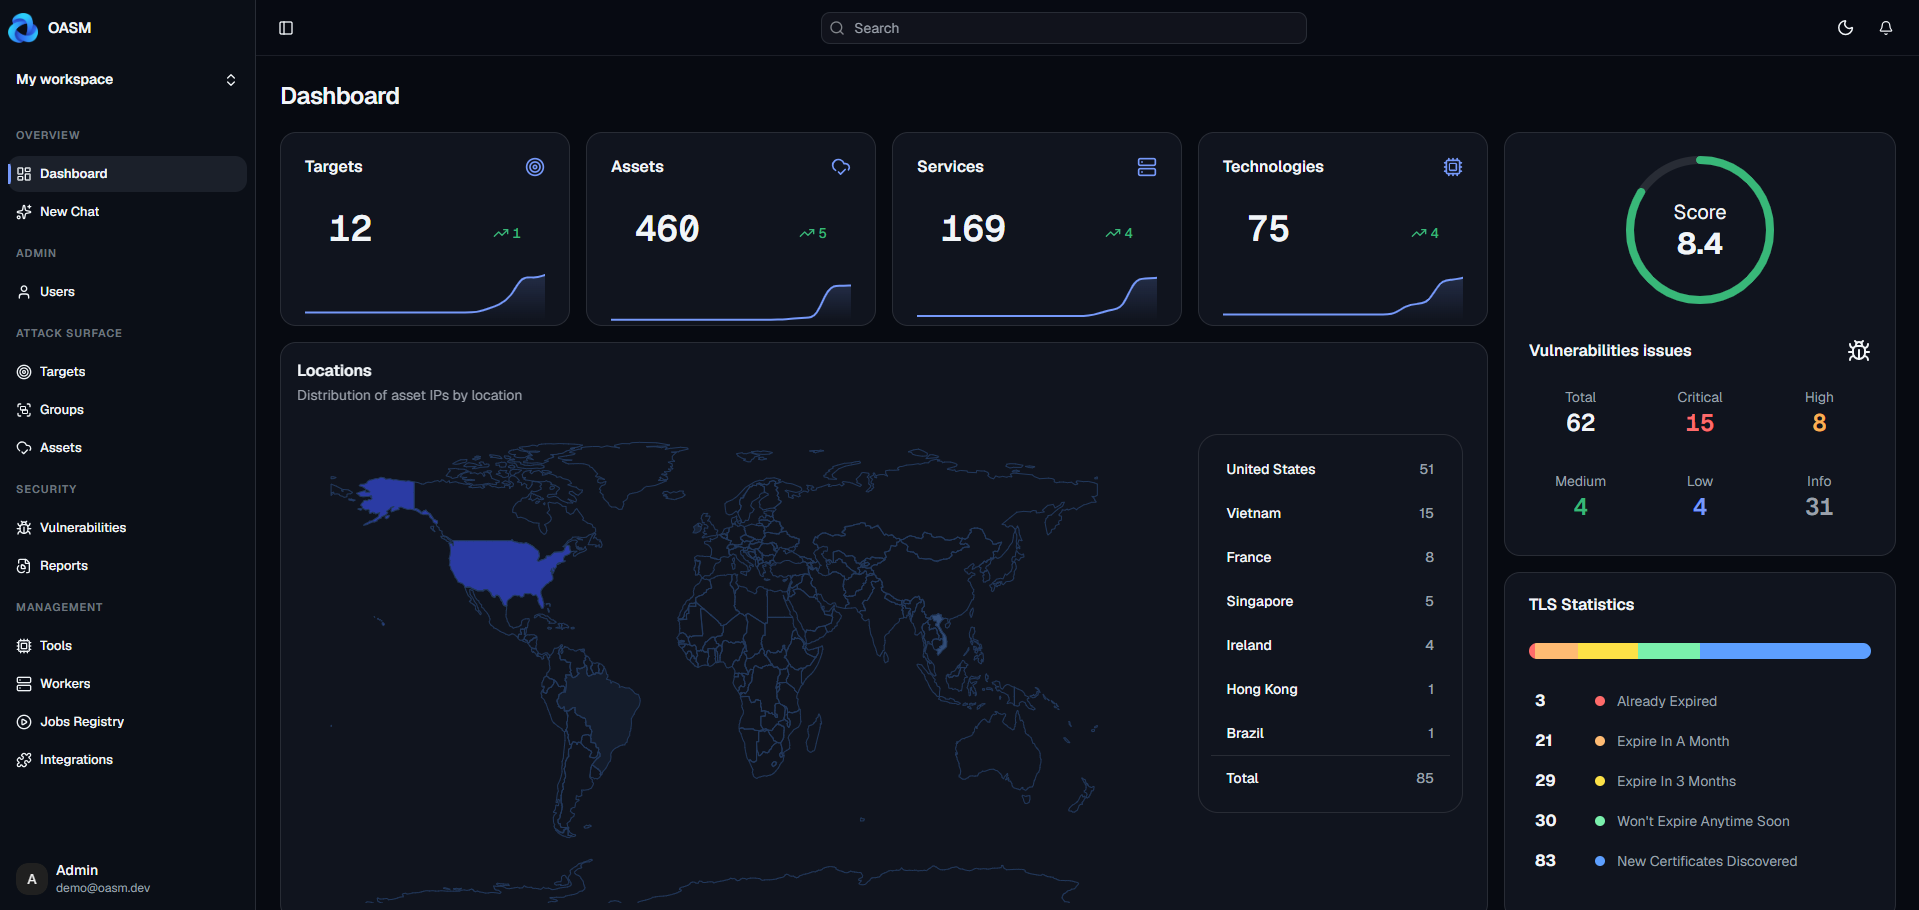
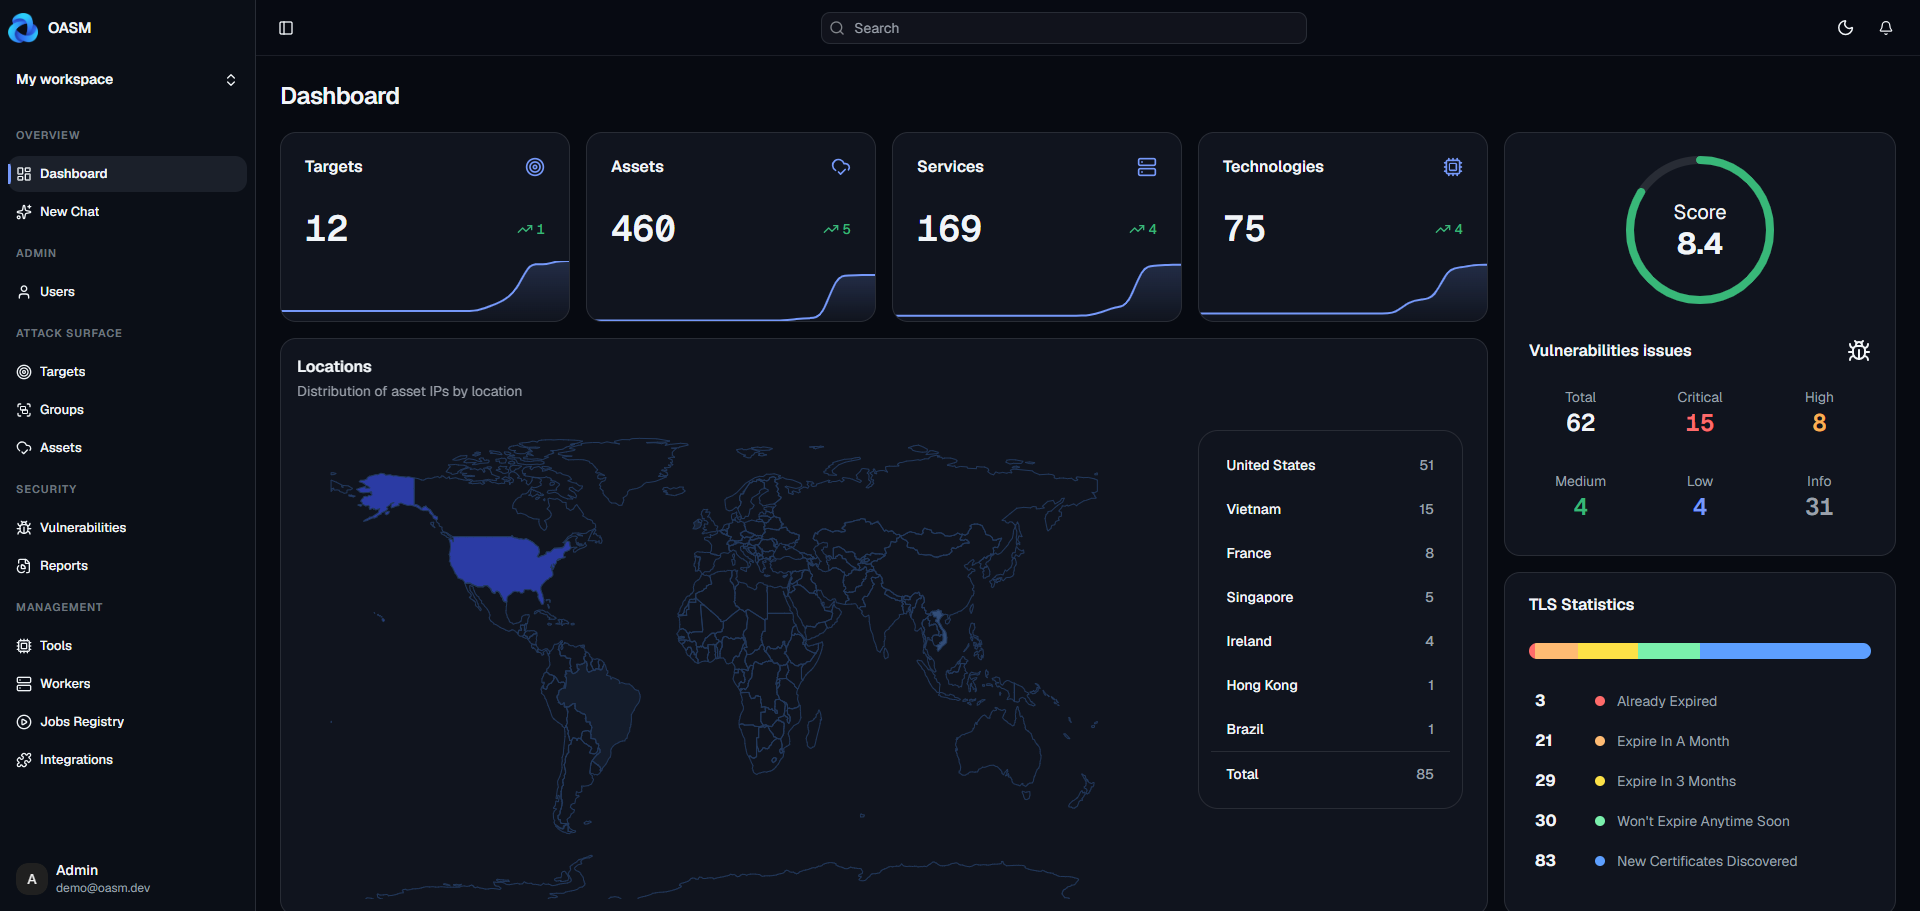
docs(readme): update badges and improve styling

diff --git a/README.md b/README.md
@@ -2,39 +2,44 @@
   <img src="core-api/public/images/logo.png" alt="OASM Logo" width="150" />
 </p>
 
-# Open Attack Surface Management (OASM)
+<h1 align="center">Open Attack Surface Management (OASM)</h1>
 
-[![Latest Release](https://img.shields.io/github/v/release/oasm-platform/open-asm.svg)](https://github.com/oasm-platform/open-asm/releases)
-[![CI](https://github.com/oasm-platform/open-asm/actions/workflows/build-nightly.yml/badge.svg)](https://github.com/oasm-platform/open-asm/actions/workflows/build-nightly.yml)
-[![Docker Build](https://img.shields.io/badge/docker-build-blue.svg)](https://github.com/oasm-platform/open-asm/actions/workflows/build-release.yml)
-[![Docker Hub](https://img.shields.io/badge/docker-oasm-blue.svg)](https://hub.docker.com/u/oasm)
-[![Docker Pulls](https://img.shields.io/docker/pulls/oasm/oasm-api)](https://hub.docker.com/r/oasm/oasm-api)
-[![Security Scanning](https://img.shields.io/badge/security-trivy-green.svg)](https://github.com/oasm-platform/open-asm/actions/workflows/build-unstable.yml)
+<p align="center">
+  <a href="https://github.com/oasm-platform/open-asm/releases"><img src="https://img.shields.io/github/v/release/oasm-platform/open-asm?style=for-the-badge&labelColor=black&color=black&logo=github&logoColor=2fc414" alt="Latest Release"></a>
+  <a href="https://github.com/oasm-platform/open-asm/actions/workflows/build-nightly.yml"><img src="https://img.shields.io/github/actions/workflow/status/oasm-platform/open-asm/build-nightly.yml?style=for-the-badge&label=CI&labelColor=black&color=black&logo=githubactions&logoColor=2088FF" alt="CI"></a>
+  <a href="https://hub.docker.com/r/oasm/oasm-api"><img src="https://img.shields.io/docker/pulls/oasm/oasm-api?style=for-the-badge&logo=docker&labelColor=black&color=black&logoColor=2496ED" alt="Docker Pulls"></a>
+  <a href="https://discord.gg/vJYq3QYph"><img src="https://img.shields.io/badge/discord-black?style=for-the-badge&logo=discord&labelColor=black&color=black&logoColor=5865F2" alt="Discord"></a>
+  <a href="https://www.linkedin.com/company/oasm-platform"><img src="https://custom-icon-badges.demolab.com/badge/LinkedIn-black?style=for-the-badge&logo=linkedin-white&logoColor=0A66C2&labelColor=black&color=black" alt="LinkedIn"></a>
+  <a href="https://x.com/OasmPlatform"><img src="https://img.shields.io/static/v1?label=&message=@OasmPlatform&color=black&style=for-the-badge&logo=x&labelColor=black&logoColor=white" alt="X"></a>
+  <a href="https://docs.oasm.dev"><img src="https://img.shields.io/badge/documentation--2fc414?style=for-the-badge&logo=gitbook&labelColor=black&color=black&logoColor=2fc414" alt="Documentation"></a>
+</p>
 
-Open-source platform for cybersecurity Attack Surface Management. Built to help security teams identify, monitor, and manage external assets and potential security exposures across their digital infrastructure.
+AI-powered, open-source Attack Surface Management platform. Discover, monitor, and secure your digital infrastructure — from assets to exposures — backed by distributed scanning, real-time monitoring, and AI-driven analytics.
 
 <p align="center">
   <a href="#features">Features</a> •
   <a href="#system-architecture">System Architecture</a> •
   <a href="#installation">Installation</a> •
-  <a href="https://docs.oasm.dev" target="_blank">Documentation</a> •
   <a href="#developer-guide">Developer Guide</a> •
   <a href="#screenshots">Screenshots</a>
 </p>
 
 ## Features
 
-- **Asset Discovery & Management**: Discover and manage internet-facing assets (domains, IPs, services) with grouping and multi-workspace support.
-- **Vulnerability Assessment**: Scan for vulnerabilities and misconfigurations with issue tracking, risk analysis, and remediation guidance.
-- **Technology Detection**: Identify technologies and services running on discovered assets.
-- **Distributed Scanning Engine**: High-performance Go-based workers with gRPC communication, designed for horizontal scaling and parallel scanning tasks.
-- **Tool Integration**: Extensible framework for integrating security scanning tools (nuclei, subfinder, httpx, naabu, dnsx).
-- **AI Assistant Integration**: MCP server and AI SDK (OpenAI, Anthropic, Google) integration for intelligent querying and analysis of asset data.
-- **Workflow Automation**: Automated scanning schedules, alerts, and remediation workflows.
-- **Real-time Monitoring**: Monitor asset changes with SSE-based instant notifications and statistics dashboard.
-- **Search & Analytics**: Full-text search and filter asset data with analytics for risk trends and reporting.
-- **Geo-IP Enrichment**: Automatic IP geolocation enrichment for discovered assets.
-- **File Storage**: S3-compatible object storage (Rustfs) for scan artifacts and reports.
+- **Asset Discovery & Management** — Automatically discover and manage internet-facing assets (IPs, ports, services, technologies) as a continuously updated inventory.
+- **Vulnerability Assessment** — Detect vulnerabilities and misconfigurations with issue tracking, risk analysis, and remediation guidance.
+- **Technology Detection** — Identify frameworks, platforms, and services running on discovered assets.
+- **Groups & Targeted Scanning** — Organize assets into groups with custom tool configurations and execution schedules for focused scans.
+- **Distributed Scanning Engine** — High-performance Go workers with gRPC communication, designed for horizontal scaling.
+- **Tool Integration** — Built-in integration with nuclei, subfinder, httpx, naabu, dnsx and an extensible framework for custom tools.
+- **Workflow Automation** — Automated scan scheduling, alerts, and remediation workflows.
+- **Real-time Monitoring** — SSE-based real-time notifications and a live statistics dashboard.
+- **Search & Analytics** — Full-text search, asset filtering, risk trend analysis, and reporting.
+- **Integrations** — Connect Slack, Telegram, and Webhooks for event-driven security alerts.
+- **AI Assistant Integration** — MCP server enabling AI assistants (OpenAI, Anthropic, Google) to query and analyze asset data via natural language.
+- **Geo-IP Enrichment** — Automatic IP geolocation enrichment for discovered assets.
+- **File Storage** — S3-compatible object storage (Rustfs) for scan artifacts and reports.
+- **Multi-workspace** — Isolated environments for different organizations, projects, or environments.
 
 ## System Architecture
 